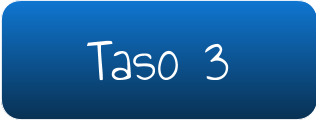
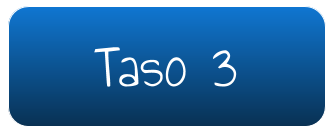
menukuvakkeet

Changed region(s): [[0.0, 0.0, 1.0, 1.0], [0.2563, 0.325, 0.5696, 0.675], [0.6266, 0.35, 0.7405, 0.675]]

diff --git a/startGame.js b/startGame.js
@@ -5,20 +5,20 @@ var music;
 
 startGame.prototype = {
   	create: function(){
-        
-		var play1 = this.game.add.button(this.game.world.centerX,this.game.world.centerY-200,"aloitaPeli",this.playLevel1,this);
+
+		var play1 = this.game.add.button(this.game.world.centerX,this.game.world.centerY-200,"lvl1",this.playLevel1,this);
         play1.scale.setTo(0.6, 0.6);
 		play1.anchor.setTo(0.5,0.5);
-        
-        var play2 = this.game.add.button(this.game.world.centerX,this.game.world.centerY-100,"aloitaPeli",this.playLevel2,this);
+
+        var play2 = this.game.add.button(this.game.world.centerX,this.game.world.centerY-100,"lvl2",this.playLevel2,this);
         play2.scale.setTo(0.6, 0.6);
 		play2.anchor.setTo(0.5,0.5);
-        
-        var play3 = this.game.add.button(this.game.world.centerX,this.game.world.centerY,"aloitaPeli",this.playLevel3,this);
+
+        var play3 = this.game.add.button(this.game.world.centerX,this.game.world.centerY,"lvl3",this.playLevel3,this);
         play3.scale.setTo(0.6, 0.6);
 		play3.anchor.setTo(0.5,0.5);
-        
-        var äänet = this.game.add.button(this.game.world.centerX,this.game.world.centerY+100,"aloitaPeli",this.soundCheck,this);
+
+        var äänet = this.game.add.button(this.game.world.centerX,this.game.world.centerY+100,"sound",this.soundCheck,this);
         äänet.scale.setTo(0.6, 0.6);
 		äänet.anchor.setTo(0.5,0.5);
 	},

diff --git a/endstate.js b/endstate.js
@@ -8,7 +8,7 @@ winGame.prototype = {
         restartStuff();
         var style = { font: "bold 32px Annie Use Your Telescope", fill: "#fff" };
         var text = this.game.add.text(this.game.world.centerX-200, this.game.world.centerY-200, "Onneksi olkoon! Pysyit aikataulussa! \nKaikki voittivat! Maakaasu valoittaa maailman!!!", style);
-        var playButton = this.game.add.button(this.game.world.centerX,this.game.world.centerY,"aloitaPeli",this.playTheGame,this);
+        var playButton = this.game.add.button(this.game.world.centerX,this.game.world.centerY,"valikkoon",this.playTheGame,this);
         playButton.scale.setTo(0.7, 0.7);
         playButton.anchor.setTo(0.5,0.5);
   },
@@ -23,7 +23,7 @@ loseGame.prototype = {
         restartStuff();
         var style = { font: "bold 32px Annie Use Your Telescope", fill: "#fff"};
         var text = this.game.add.text(this.game.world.centerX-200, this.game.world.centerY-200, "Valitettavasti et pysynyt aikataulussa \n ja putket ruostuivat merenpohjaan...", style);
-        var playButton = this.game.add.button(this.game.world.centerX,this.game.world.centerY,"aloitaPeli",this.playTheGame,this);
+        var playButton = this.game.add.button(this.game.world.centerX,this.game.world.centerY,"valikkoon",this.playTheGame,this);
         playButton.scale.setTo(0.7, 0.7);
         playButton.anchor.setTo(0.5,0.5);
     },

diff --git a/bootpreload.js b/bootpreload.js
@@ -4,7 +4,7 @@ var boot = function(game){
 
 boot.prototype = {
 	preload: function(){
-          
+
 	},
   	create: function(){
 		//this.scale.scaleMode = Phaser.ScaleManager.SHOW_ALL;
@@ -36,6 +36,11 @@ preload.prototype = {
           this.game.load.image('menu', 'valikko.png');
           this.game.load.audio('mystery', 'sea.mp3');
           this.game.load.image('aloitaPeli', 'aloitaPeli.jpg');
+          this.game.load.image('lvl1', 'menu/lvl1.png');
+          this.game.load.image('lvl2', 'menu/lvl2.png');
+          this.game.load.image('lvl3', 'menu/lvl3.png');
+          this.game.load.image('sound', 'menu/sound.png');
+          this.game.load.image('valikkoon', 'menu/valikkoon.png');
           this.game.load.spritesheet('shark', 'meri/shark.png', 142, 121, 7);
           this.game.load.spritesheet('jellyfish', 'meri/jellyfish1.png', 288/6, 47, 6);
 	},
